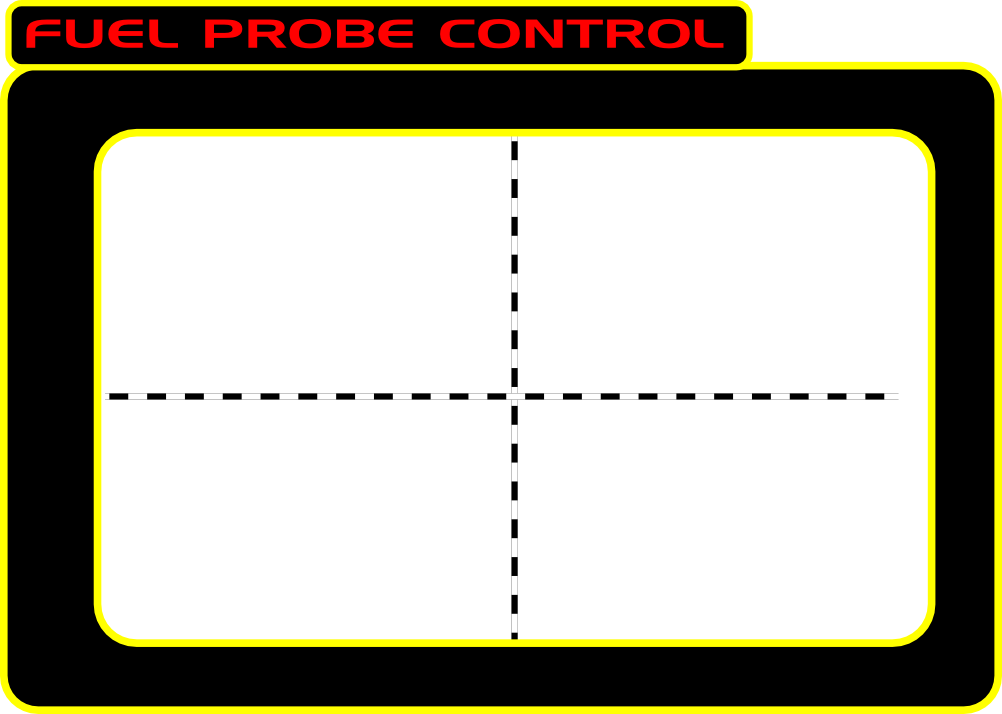
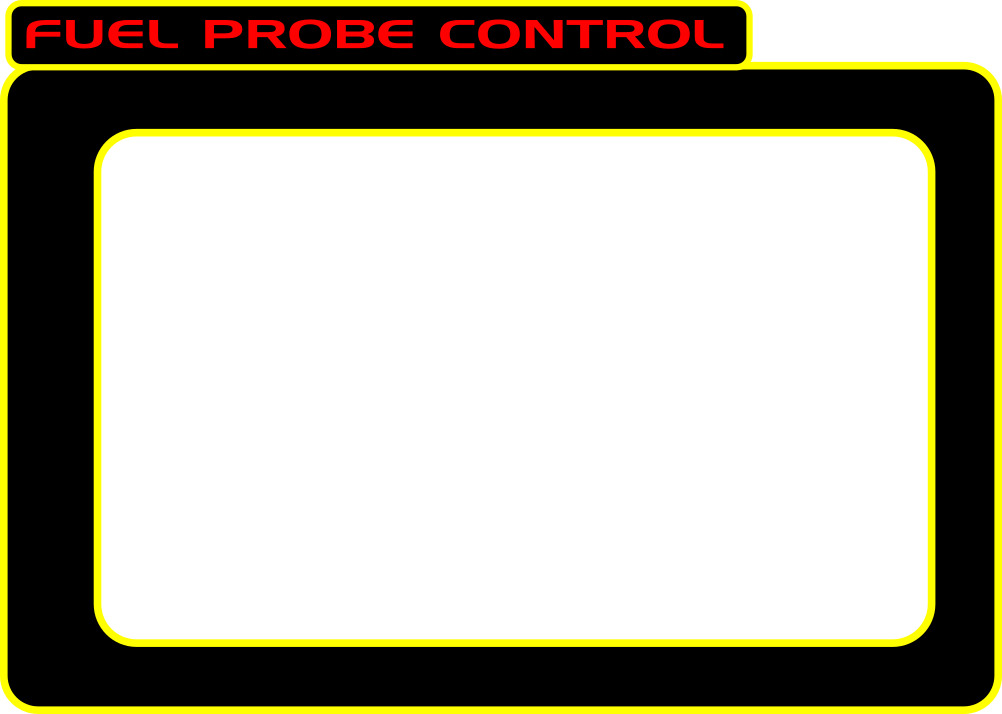
framework for refueling game

diff --git a/src/engineer/RefuelDisplay.java b/src/engineer/RefuelDisplay.java
@@ -2,8 +2,11 @@ package engineer;
 
 import java.awt.event.KeyEvent;
 
+import jogamp.graph.font.typecast.ot.table.HeadTable;
 import oscP5.OscMessage;
 import processing.core.PApplet;
+import processing.core.PConstants;
+import processing.core.PFont;
 import processing.core.PGraphics;
 import processing.core.PImage;
 import processing.core.PVector;
@@ -19,41 +22,219 @@ public class RefuelDisplay extends Display {
 	PVector headVel	= new PVector(0,0,0);
 	PVector headVelTarget = new PVector(0,0,0);
 	
-	PImage overlayImage, targetImage;
+	PVector centrePos = new PVector(-304, -447, 400);
+	
+	PImage overlayImage, targetImage, crosshairImage;
 	
 	PGraphics targetGraphics;
-
+	PShader damageDistortion;
+	PFont kurzFont;
+	
+	PuzzleState puzzleState = PuzzleState.STATE_PLAYING;
+	private int crashTimer;
+	private int pullAwayTimer = 0;
+	
+	public enum PuzzleState {
+		STATE_STARTUP, STATE_PLAYING, STATE_CONNECTED, STATE_FUCKED;
+	}
 
 	public RefuelDisplay(PlayerConsole parent) {
 		super(parent);
 		overlayImage = parent.loadImage("engineerconsole/screens/docking/fuelOverlay.png");
 		targetImage = parent.loadImage("engineerconsole/screens/docking/target.png");
+		crosshairImage = parent.loadImage("engineerconsole/screens/docking/crosshair.png");
+
 
 		targetGraphics = parent.createGraphics(860,530, PApplet.P3D);
-
+		damageDistortion = targetGraphics.loadShader("common/damageEffects/distort.glsl");
+		damageDistortion.set("damage", new Float(30));
+		
+		kurzFont = parent.loadFont("engineerconsole/kurz.vlw"); 
+		headPos = getNewStartPos(0.5f);
 	}
 
 	@Override
 	public void draw() {
-		headVel = PVector.lerp(headVel, headVelTarget, 0.4f);
-		headVelTarget.x = 0;
-		headVelTarget.y = 0;headVelTarget.z = 0;
-		headPos.add(headVel);
+		if(crashTimer > 0){
+			crashTimer --;
+			damageDistortion.set("damage", 70+parent.random(20));
+			if(crashTimer <= 0){
+				damageDistortion.set("boom", false);
+			}
+		}
 		
 		parent.background(0);
-		
-		targetGraphics.beginDraw();
-		targetGraphics.background(0);
-		targetGraphics.translate(headPos.x, headPos.y, headPos.z);
-		
-		targetGraphics.image(targetImage,0, 0);
-
-		targetGraphics.endDraw();
-
-		parent.image(targetGraphics, 90, 148);
-		
+		switch(puzzleState){
+		case STATE_STARTUP:
+			drawConnection();
+			break;
+		case STATE_PLAYING:
+			doDocking();
+			break;
+		case STATE_CONNECTED:
+			doConnected();
+			break;
+		case STATE_FUCKED:
+			doForceDisconnected();
+			break;
+		}
 		parent.image(overlayImage, 10,15);
 
+	}
+	
+	/* draw a "LAODING" screen 
+	 * 
+	 */
+	void drawConnection(){
+		
+	}
+	
+	/* initiate a connection to the fuel socket
+	 * 
+	 */
+	void connect(){
+		ConsoleLogger.log(this, "connection");
+		puzzleState = PuzzleState.STATE_CONNECTED;
+		headVelTarget = new PVector(0,0,0);
+		headVel = new PVector(0,0,0);
+	
+	}
+	
+	/* safe disconnect */
+	void disconnect(){
+		ConsoleLogger.log(this, "Safe disconnection started");
+		puzzleState = PuzzleState.STATE_PLAYING;
+	}
+	
+	/* forced disconnect, as in "the player flew off with the line connected */
+	void forceDisconnect(){
+		puzzleState = PuzzleState.STATE_FUCKED;
+	}
+	
+	/* head crashed into the wall too fast
+	 * 
+	 */
+	void crash(){
+		ConsoleLogger.log(this, "BANG");
+		crashTimer = 10;
+		damageDistortion.set("boom", true);
+	}
+	
+	void doConnected(){
+		damageDistortion.set("damage", 40+parent.random(50));
+		drawTarget();
+		
+		//look to see if the player is pulling away with - key
+		if(headVelTarget.z < 0){
+			pullAwayTimer ++;
+			
+		} else {
+			pullAwayTimer = 0;
+		}
+		if(pullAwayTimer > 20){
+			disconnect();
+		}
+	}
+	
+	/* was force disconnected, show static and warning text */
+	void doForceDisconnected(){
+		damageDistortion.set("damage", parent.random(100));		
+		drawTarget();
+		
+	}
+	
+	void doDocking(){
+		damageDistortion.set("damage", 20+parent.random(40));
+		headVel = PVector.lerp(headVel, headVelTarget, 0.02f);
+		if(headPos.z + headVel.z > 400){	//test for collision
+			
+			if(headVel.z >= 0.3f){
+				crash();
+			} else {
+				//test for a connection
+				if(PVector.dist(headPos, centrePos) < 8f){
+					connect();
+				} else {
+					crash();
+				}
+				
+				
+			}
+			headVel.z = -headVel.z;
+		} else if (headPos.z + headVel.z < 0){
+			headVel.z = -headVel.z;
+			ConsoleLogger.log(this, "DISCONNECT");
+		}
+	
+		headPos.add(headVel);
+		headPos.x = PApplet.constrain(headPos.x, -600, 0);
+		headPos.y = PApplet.constrain(headPos.y, -946, 0);
+		drawTarget();
+		
+		
+		
+	}
+	
+	void drawTarget(){
+		targetGraphics.beginDraw();
+		targetGraphics.background(0);
+		
+		targetGraphics.pushMatrix();
+		targetGraphics.translate(headPos.x, headPos.y, headPos.z);
+		if(puzzleState == PuzzleState.STATE_FUCKED){
+			targetGraphics.fill(0);
+			targetGraphics.rect(0,0,targetGraphics.width, targetGraphics.height);
+		} else {
+			targetGraphics.image(targetImage,0, 0);
+		}
+		targetGraphics.popMatrix();
+		
+		
+		
+		targetGraphics.hint(PApplet.DISABLE_DEPTH_TEST);
+
+		targetGraphics.image(crosshairImage,-124, -90);
+		
+		
+		
+		
+		//----TEXT SECTION----
+		targetGraphics.fill(255);
+		targetGraphics.textFont(kurzFont, 58);
+		targetGraphics.text("ПРИЧАЛ ПРИЧАЛ",60,50);
+		
+		targetGraphics.text("Шx " + (int)(headVel.x * 10f), 680,50);
+		targetGraphics.text("Шy " + (int)(headVel.y * 10f), 680,80);
+		String zText = "Шz " + (int)(headVel.z * 10f);
+		if(headVel.z >= 0.3f && parent.globalBlinker){
+			zText = ">>" + zText + "<<";
+			
+		}
+	
+		targetGraphics.text(zText, 680,110);
+		
+		targetGraphics.text("Цx " + (headPos.x - centrePos.x), 680,160);
+		targetGraphics.text("Цy " + (headPos.y - centrePos.y), 680,190);
+		targetGraphics.text("Цz " + (headPos.z - centrePos.z), 680,220);
+		
+		targetGraphics.textFont(kurzFont, 90);
+		String connectText = ">>ОТСОЕДИНЕННОМ<<";
+		if(puzzleState == PuzzleState.STATE_CONNECTED){
+			if(parent.globalBlinker){
+				connectText = "<< ПОДКЛЮЧЕНИЕ >>";
+			} else {
+				connectText = "";
+			}
+		} else if (puzzleState == PuzzleState.STATE_FUCKED){
+			connectText = "!! НЕТ СОЕДИНЕНИЯ !!";
+			
+		}
+		targetGraphics.text(connectText, 156,494); //connected = 
+		targetGraphics.endDraw();
+
+		
+		targetGraphics.filter(damageDistortion);
+		parent.image(targetGraphics, 90, 148);
 	}
 
 	@Override
@@ -89,6 +270,18 @@ public class RefuelDisplay extends Display {
 		}
 	}
 
+	PVector getNewStartPos(float accuracy){
+		//tl : -178,0
+		//br : -600, -946
+		//centre -304, -447
+		
+		
+		int randX = (int) -( parent.random(600));
+		int randY = (int) -parent.random(946);
+		
+		return new PVector(-304, -447, 300);//PVector(randX, randY, 0);
+	}
+	
 	@Override
 	public void start() {
 		// TODO Auto-generated method stub

diff --git a/src/engineer/AirlockDisplay.java b/src/engineer/AirlockDisplay.java
@@ -1,4 +1,4 @@
-	package engineer;
+package engineer;
 
 import java.awt.event.KeyEvent;
 
@@ -36,7 +36,7 @@ public class AirlockDisplay extends Display {
 	String stateText = "DOOR LOCKED";
 	int failTime = 0;
 	int successTime = 0;
-	
+
 	String authCode = "";
 
 	String doorCode = "12345";
@@ -60,9 +60,9 @@ public class AirlockDisplay extends Display {
 		parent.image(bgImage, 0, 0, parent.width, parent.height);
 
 		parent.textFont(font, 50);
-		
+
 		parent.fill(0, 255, 0);
-		for(int i = 0; i < authCode.length(); i++){
+		for (int i = 0; i < authCode.length(); i++) {
 			parent.text("" + authCode.charAt(i), 170 + i * 150, 390);
 		}
 
@@ -110,19 +110,18 @@ public class AirlockDisplay extends Display {
 	}
 
 	public void keyEntered(int k) {
-		char c = (char)k;
-		ConsoleLogger.log(this, "received key key entered " + c);
+		char c = (char) k;
+
 		if (locked) {
-			
-			if(c == KeyEvent.VK_BACK_SPACE){
-				if(authCode.length() > 0){
-					
-				
+
+			if (c == KeyEvent.VK_BACK_SPACE) {
+				if (authCode.length() > 0) {
+
 					authCode = authCode.substring(0, authCode.length() - 1);
 				}
-			
-			} else if (c == KeyEvent.VK_ENTER || authCode.length() >= 5){
-				//authCode +=c;
+
+			} else if (c == KeyEvent.VK_ENTER || authCode.length() >= 5) {
+				// authCode +=c;
 				if (authCode.equals(doorCode)) {
 					failedCode = false;
 					locked = false;
@@ -137,27 +136,28 @@ public class AirlockDisplay extends Display {
 				}
 			} else if (c >= KeyEvent.VK_NUMPAD0 && c <= KeyEvent.VK_NUMPAD9) {
 				authCode += (c - KeyEvent.VK_NUMPAD0);
-			
-			} 
+
+			}
 		}
 	}
-	
 
-	
 	@Override
 	public void oscMessage(OscMessage theOscMessage) {
 	}
 
 	@Override
-	public void serialEvent(HardwareEvent evt) {		
-		if (evt.event.equals("KEY")) {		
-			
-			
-			if (evt.value >= KeyEvent.VK_NUMPAD0 && evt.value <= KeyEvent.VK_NUMPAD9
-					|| evt.value == KeyEvent.VK_ENTER || evt.value == KeyEvent.VK_BACK_SPACE) {
-				//char c = (char)evt.value;
-				keyEntered(evt.value);
-			} else if (evt.value == KeyEvent.VK_L){
+	public void serialEvent(HardwareEvent evt) {
+		if (evt.event.equals("KEY") && evt.value == 1) {
+
+			if (evt.id >= KeyEvent.VK_NUMPAD0 && evt.id <= KeyEvent.VK_NUMPAD9
+					|| evt.id == KeyEvent.VK_ENTER
+					|| evt.id == KeyEvent.VK_BACK_SPACE) {
+				// char c = (char)evt.value;
+
+				keyEntered(evt.id);
+
+			} else if (evt.id == KeyEvent.VK_L) {
+
 				dumpAirlock();
 			}
 		}
@@ -182,7 +182,7 @@ public class AirlockDisplay extends Display {
 			parent.getConsoleAudio().playClip("airlockDump", -1.0f);
 
 		}
-		
+
 	}
 
 	void setAirlockLightState(boolean state) {
@@ -203,7 +203,7 @@ public class AirlockDisplay extends Display {
 		successTime = 0;
 		doneSuccessMessage = false;
 		stateText = "DOOR LOCKED";
-		
+
 		doorCode = possibleAuthCodes[0];
 
 	}
